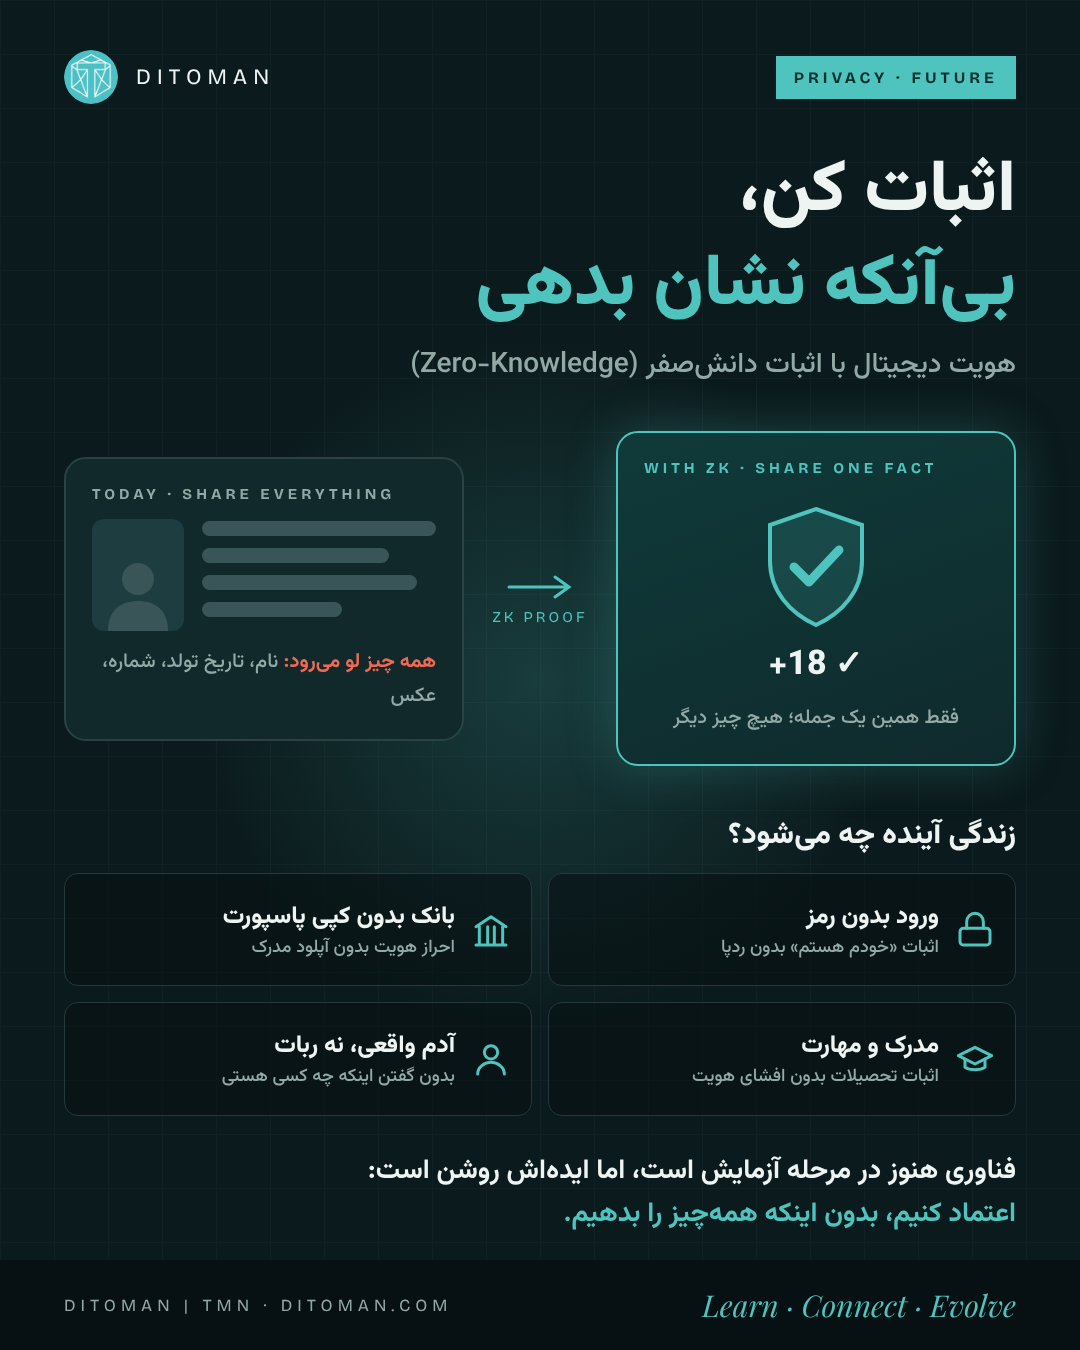
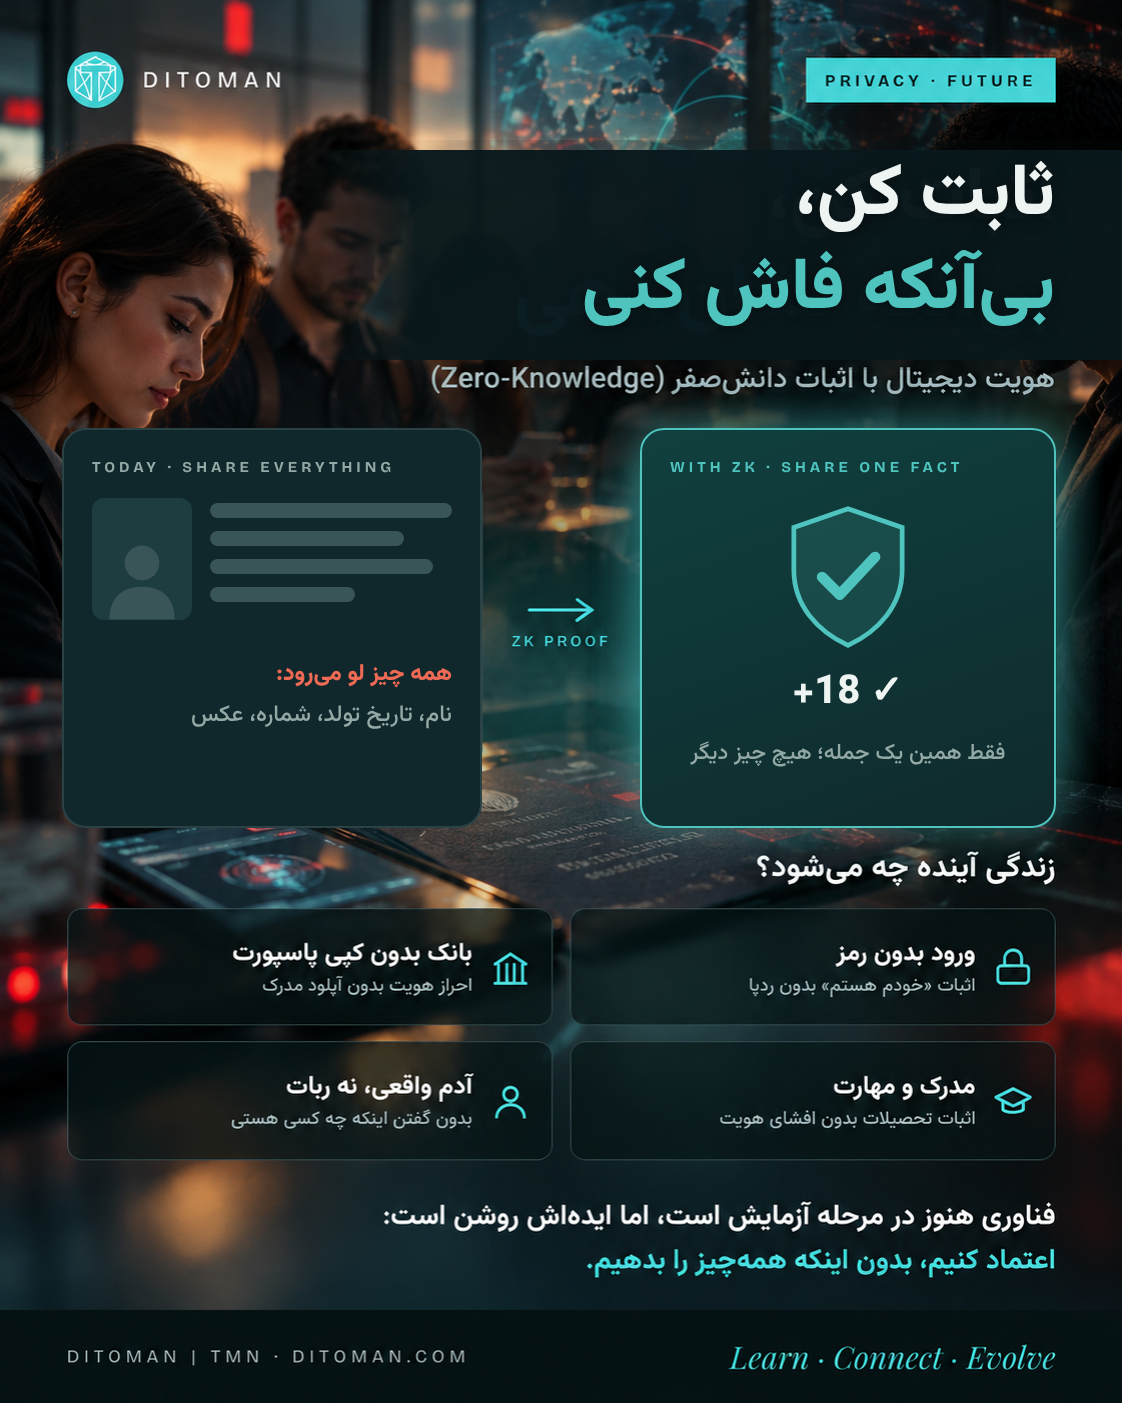
Fix ZK post headline wording and cover
Claude-Session: https://claude.ai/code/session_012uZ8KirqUQDtuwAiJaiFzZ

diff --git a/telegram/2026-10-31-05-zk-identity.md b/telegram/2026-10-31-05-zk-identity.md
@@ -1,7 +1,7 @@
 image: social/zk-identity/post.png
-🛡 اثبات کن، بیآنکه نشان بدهی
+🛡 ثابت کن، بیآنکه فاش کنی
 
-برای ورود به یک سایت فقط باید ثابت کنی بالای ۱۸ سال هستی. امروز مجبوری عکس کارت ملی یا پاسپورت بدهی؛ یعنی نام، تاریخ تولد، شماره و عکس. فناوری «اثبات دانشصفر» (Zero-Knowledge Proof) راه دیگری نشان میدهد: فقط ثابت میکنی آن یک جمله درست است و هیچ چیز دیگر فاش نمیشود. مثل اینکه ثابت کنی کلید یک در را داری، بیآنکه کلید را نشان بدهی.
+برای ورود به یک سایت فقط باید ثابت کنی بالای ۱۸ سال هستی. امروز مجبوری عکس کارت ملی یا پاسپورت بدهی؛ یعنی نام، تاریخ تولد، شماره و عکس. فناوری «اثبات دانشصفر» (Zero-Knowledge Proof) راه دیگری نشان میدهد: فقط ثابت میکنی آن یک جمله درست است و هیچ چیز دیگر فاش نمیشود. مثل اینکه ثابت کنی کلید یک در را داری، بیآنکه خودِ کلید را رو کنی.
 
 🔹 چرا این خبر جالب است؟
 • اتحادیه اروپا طبق قانون eIDAS 2.0 قرار است تا پایان ۲۰۲۶ به شهروندان و ساکنانش کیف پول هویت دیجیتال بدهد
